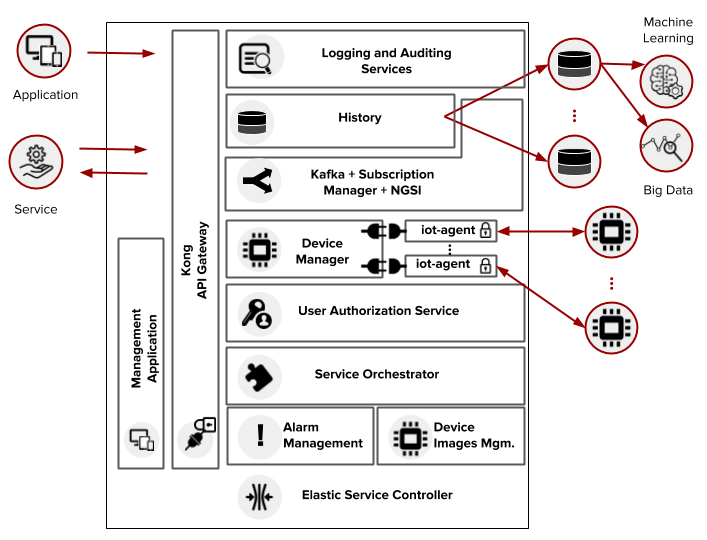
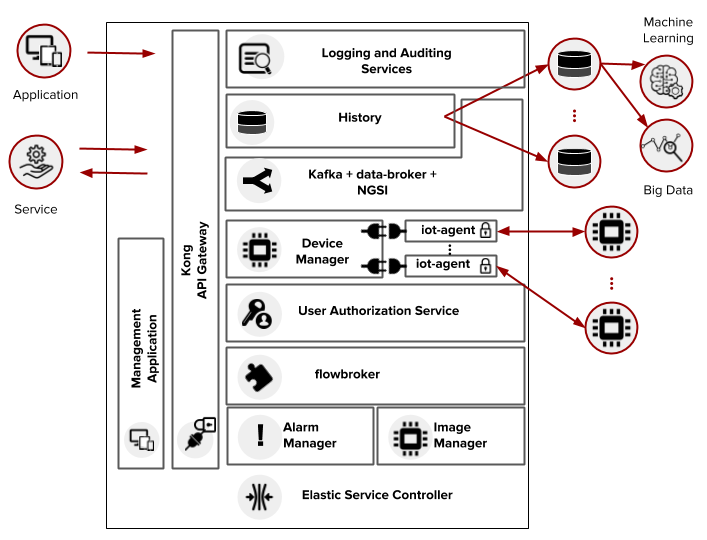
Updating names in architecture page

diff --git a/source/architecture.rst b/source/architecture.rst
@@ -56,7 +56,7 @@ repository <https://github.com/dojot>`_.
 Each one of the components that are part of the architecture are briefly
 described on the sub-sections below.
 
-Kafka + Subscription Manager + NGSI
+Kafka + data-broker + NGSI
 ***********************************
 
 Apache Kafka is a distributed messaging platform that can be used by
@@ -68,16 +68,16 @@ isolation, simplicity, and so on).
 In Kafka, a specialized topics structure is used to insure isolation between
 different users and applications data, enabling a multi-tenant infrastructure.
 
-The subscription manager service makes use of an in-memory database for
-efficiency. It adds context to Apache Kafka, making it possible that internal
-or even external services are able to subscribe or query data based on context.
-The subscription manager is also a distributed service to avoid it being a
-single point of failure or even a bottleneck for the architecture.
+The flow-broker service makes use of an in-memory database for efficiency. It
+adds context to Apache Kafka, making it possible that internal or even external
+services are able to subscribe or query data based on context. Flow-broker is
+also a distributed service to avoid it being a single point of failure or even
+a bottleneck for the architecture.
 
 To keep a certain level of compatibility with NGSI-compatible components, we
 added a NGSI interface translation service.
 
-Device Manager
+DeviceManager
 **************
 
 DeviceManager is a core entity which is responsible for keeping device and
@@ -101,6 +101,17 @@ and HTTP/JSON.
 It is also responsible for all security mechanisms used in communication
 channels between the devices it deals with and the component itself.
 
+dojot has a few ready-to-use IoT agents:
+
+- `iotagent-json`_: MQTT agent that makes use of Mosquitto MQTT broker. This
+  IoT agent allows device actuation, usage of translation instructions, sending
+  alarms, and so on.
+- `iotagent-mosca`_: a simpler version of a MQTT IoT agent which implements a
+  MQTT broker (using `Mosca`_ library). This agent will implement interesting
+  features such as client identification and detection (as it doesn't depend on
+  an external MQTT broker), more detailed statistics about devices, and so on.
+
+
 User Authorization Service
 **************************
 
@@ -112,8 +123,8 @@ To be able to deal with a high volume of authorization calls, it uses caching,
 it is stateless and it is scalable horizontally. Its data is stored on a
 database.
 
-Service Orchestrator
-********************
+flowbroker
+**********
 
 This service provides a high level API for configuring the *dojot* with the
 objective of reducing the need of knowing how to handle each one of the
@@ -196,8 +207,8 @@ Alarm Management
 This component is responsible for handling alarms generated by dojot's internal
 components, such as IoT agents, Device Manager, and so on.
 
-Device Images management
-************************
+Image manager
+*************
 
 This component is responsible for device image storage and retrievement.
 
@@ -236,3 +247,8 @@ All components communicate with each other in two ways:
   any hard associations between components. For instance, Device Manager
   doesn't know which components need its information, and an IoT agent doesn't
   need to know which component is sending data through a particular topic.
+
+
+.. _iotagent-json: https://github.com/dojot/iotagent-json
+.. _iotagent-mosca: https://github.com/dojot/iotagent-mosca
+.. _Mosca: https://github.com/mcollina/mosca
